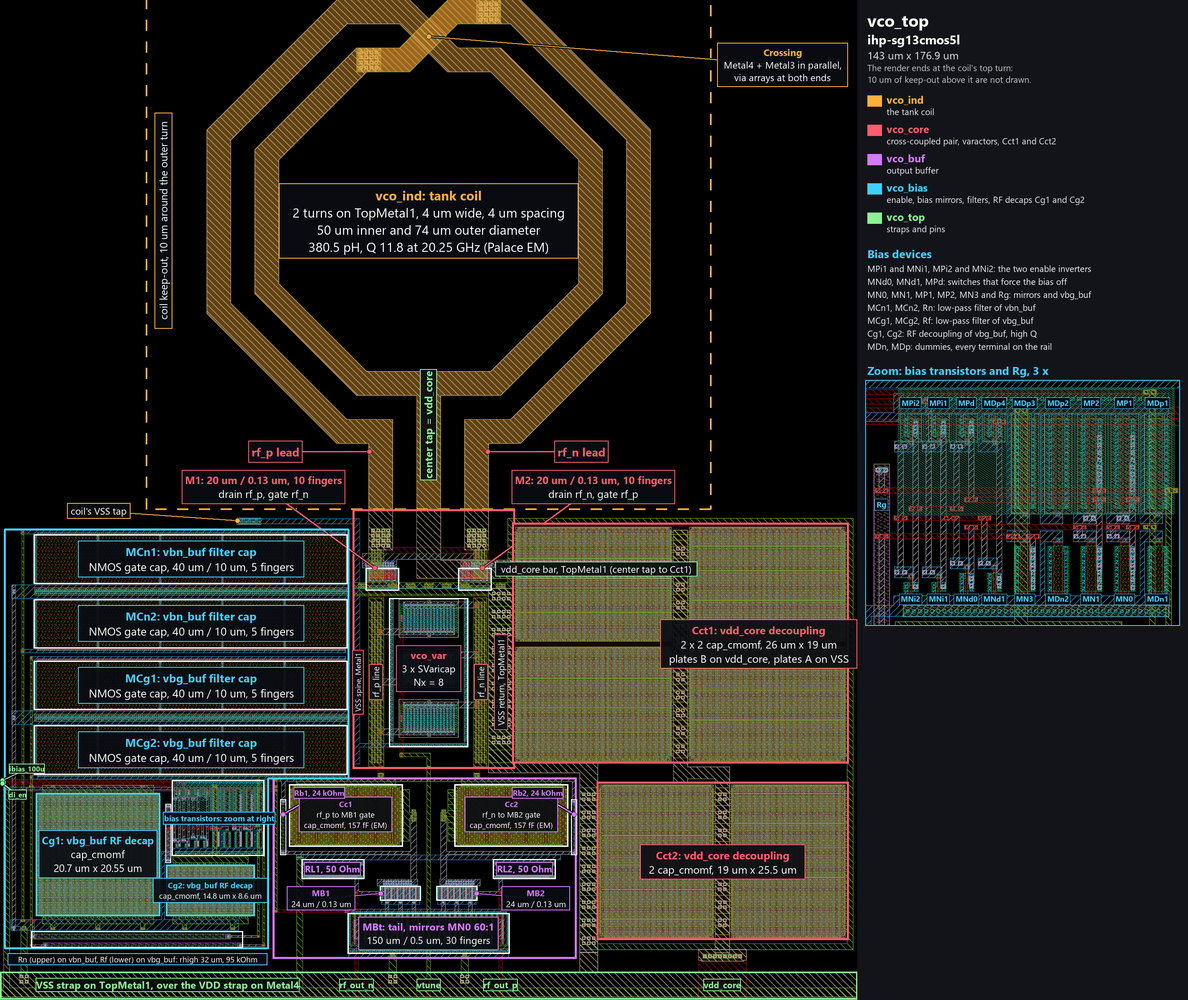
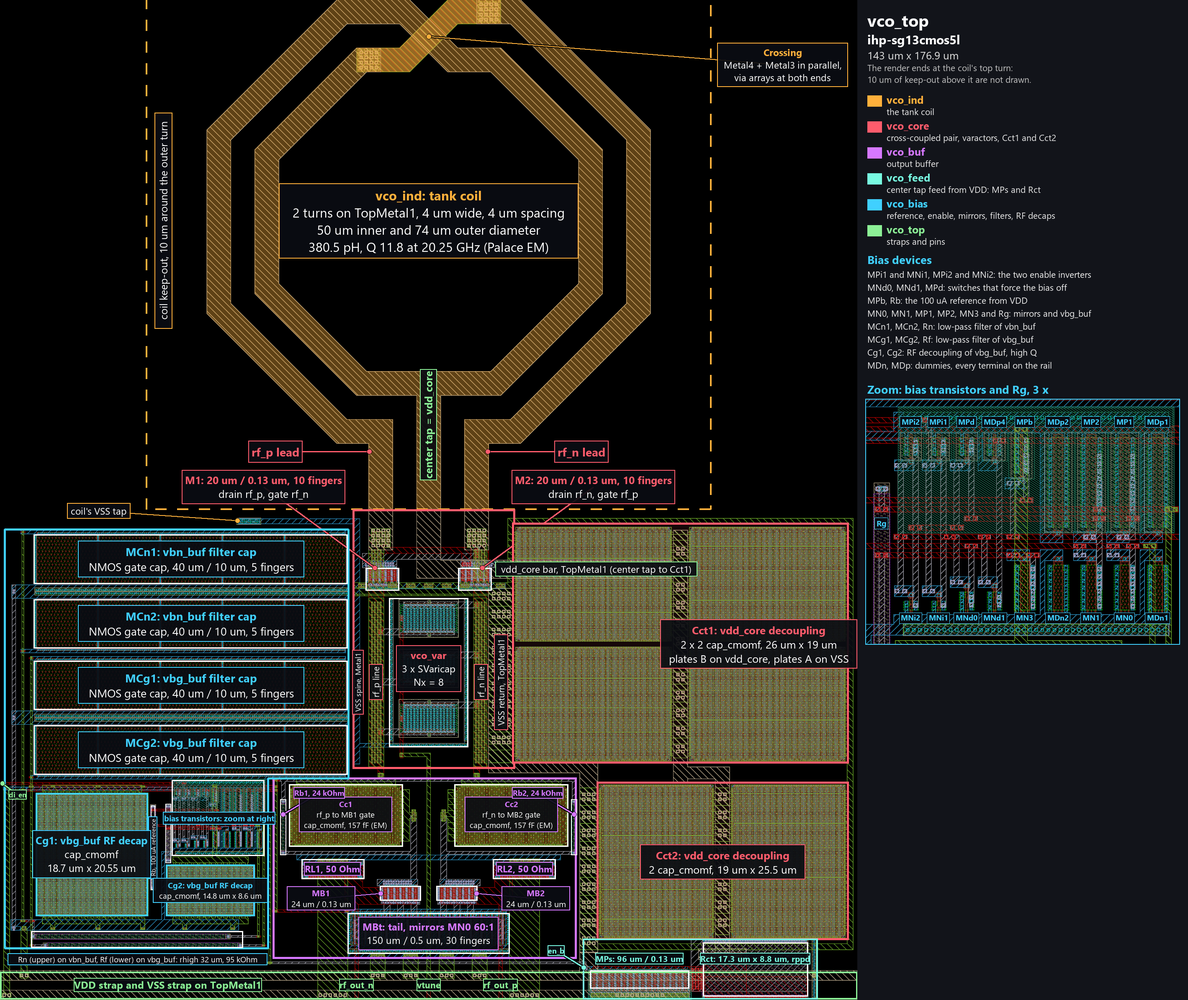
documented the `vco` tap feed, its downsides and the current limits

diff --git a/macros/vco/README.md b/macros/vco/README.md
@@ -5,6 +5,9 @@ A 20 GHz LC voltage-controlled oscillator built from CMOS devices only, the RF m
 > [!NOTE]
 > This macro is under construction on the branch `add-rf-macro`. The schematic, its simulations over corners, the layout of every cell (KLayout Python scripts, KLayout DRC clean but for the density rules the chip's fill resolves, LVS matching), the EM model of the coil and a post-layout simulation are in place. The chip integration follows, see [Status](#status). The chip top-level does not build it yet.
 
+> [!WARNING]
+> The bias and the center tap's feed were reworked: the macro now needs only `VDD`, `VSS`, `di_en` and `vtune`. [Specification](#specification), [Circuit](#circuit), [Pins](#pins), the first table of [Corners](#corners), [Current Density](#current-density) and [Limitations](#limitations) describe this version. The other tables, the figures and the tutorial still show the version with the `vdd_core` and `ibias_100u` pads until every testbench has been rerun, see [Status](#status).
+
 > [!IMPORTANT]
 > The VACASK testbenches need the IIC-OSIC-TOOLS container with tag `2026.10` or later: the oscillator PSS (`oscillator=1`), `pac` and `pnoise` arrived in VACASK after the `2026.09` image.
 
@@ -13,17 +16,17 @@ A 20 GHz LC voltage-controlled oscillator built from CMOS devices only, the RF m
 
 | Parameter | Target | Simulated (TT, 27 C) |
 | --- | --- | --- |
-| Oscillation frequency | 20 GHz | 20.11 GHz post-layout at `vtune` = 0.75 V, 22.73 GHz in the schematic |
-| Tuning range | about 2 GHz, with 20 GHz inside it at every corner | 1.90 GHz post-layout, 19.45 GHz to 21.35 GHz for `vtune` from 0 V to 1.5 V, 1.84 GHz to 2.00 GHz over the corners, 2.60 GHz in the schematic (21.77 GHz to 24.38 GHz) |
-| Tuning gain | | 0.75 GHz/V to 2.24 GHz/V, 1.97 GHz/V at 0.75 V |
-| Phase noise | not optimized, reported | -102.3 dBc/Hz at 1 MHz, see [Limitations](#limitations) |
-| Output power | -10 dBm or more per output into 50 Ohm | -8.9 dBm in the schematic, -10.2 dBm post-layout from the peak-to-peak swing, which reads about 1 dB high |
-| Supplies | `VDD` = 1.5 V, the chip core supply, and `vdd_core` = 0.80 V from its own pad | `VDD` 6.4 mA, `vdd_core` 5.0 mA, plus the 0.1 mA reference, post-layout 5.7 mA and 5.3 mA |
-| Bias | 100 uA reference current into `ibias_100u` | |
-| Power down | `di_en` low turns the buffer and bias currents off, `vdd_core` at 0 V the core | |
-| Corners | starts and stays below 1.5 V on every node at SS, TT and FF, -40 C to 85 C | yes post-layout, 19.16 GHz to 21.53 GHz, highest node 1.44 V, see [Corners](#corners) |
+| Oscillation frequency | 20 GHz | 20.09 GHz post-layout at `vtune` = 0.75 V, 22.75 GHz in the schematic |
+| Tuning range | about 2 GHz, with 20 GHz inside it at every corner | 1.94 GHz post-layout, 19.40 GHz to 21.35 GHz for `vtune` from 0 V to 1.5 V, 2.61 GHz in the schematic (21.77 GHz to 24.38 GHz) |
+| Tuning gain | | 0.77 GHz/V to 2.23 GHz/V, 2.00 GHz/V at 0.75 V, in the schematic |
+| Phase noise | not optimized, reported | -101.1 dBc/Hz at 1 MHz in the schematic, see [Limitations](#limitations) |
+| Output power | -10 dBm or more per output into 50 Ohm | -8.3 dBm in the schematic, -10.2 dBm post-layout from the peak-to-peak swing, which reads about 1 dB high |
+| Supply | `VDD` = 1.5 V from a quiet pad of its own, see [Limitations](#limitations) | 10.8 mA post-layout: core 4.6 mA, buffer tail 5.9 mA, the rest the bias |
+| Bias | from `VDD`, no reference input: `MPb` and `Rb` set about 100 uA in `MN0` | |
+| Power down | `di_en` low stops the core, the buffer and the bias | no oscillation and 9 nA from `VDD` post-layout at TT, 27 C |
+| Corners | starts and stays below 1.5 V on every node at SS, TT and FF, -40 C to 85 C, with `res_typ` at 1.5 V, `res_wcs` at 1.35 V and `res_bcs` at 1.65 V | yes post-layout, 19.07 GHz to 21.59 GHz, highest node 1.495 V, see [Corners](#corners) |
 
-The macro is centered on its post-layout simulation (see [Post-Layout Simulation](#post-layout-simulation)): 20 GHz at the middle of the tuning range, and `vdd_core` in the middle of the window in which every post-layout corner starts and no tank node passes 1.5 V. The schematic, without the resistance and the capacitance of the leads, oscillates 13 % higher and swings higher, so its tank peaks pass 1.5 V at FF, and they are reported but not checked. The other values are schematic-level unless they say post-layout, with the coil model fitted to the EM simulation of the coil's layout (see [EM Simulation of the Coil](#em-simulation-of-the-coil)).
+The macro is centered on its post-layout simulation (see [Post-Layout Simulation](#post-layout-simulation)): 20 GHz at the middle of the tuning range, and `Rct` where every post-layout corner starts at the weak end, `res_wcs` with `VDD` at 1.35 V, and no tank node passes 1.5 V at the strong end, `res_bcs` with `VDD` at 1.65 V. The schematic, without the resistance and the capacitance of the leads, oscillates 13 % higher and swings higher, so its tank peaks pass 1.5 V at FF, and they are reported but not checked. The other values are schematic-level unless they say post-layout, with the coil model fitted to the EM simulation of the coil's layout (see [EM Simulation of the Coil](#em-simulation-of-the-coil)).
 
 This is a simple VCO to learn the RF flow on, not an optimized design. It goes through each step once, from the schematic over the coil's layout, EM simulation and lumped-element model to the oscillator analyses of VACASK and a post-layout simulation. [Limitations](#limitations) lists where it falls short and what a better design would change.
 
@@ -32,16 +35,19 @@ This is a simple VCO to learn the RF flow on, not an optimized design. It goes t
 
 | Cell | Function |
 | --- | --- |
-| `vco_top` | the macro: bias, core, coil and buffer, and the pins |
+| `vco_top` | the macro: bias, tap feed, core, coil, buffer and the pins |
 | `vco_core` | negative resistance and tank capacitance: the cross-coupled NMOS pair `M1`/`M2`, the varactor array, and the decoupling capacitors `Cct1` and `Cct2` of `vdd_core` at the coil's center tap |
 | `vco_ind` | the center-tapped tank coil: the inductor the LVS deck extracts (`vco_ind_lvs.sym`), and the lumped-element model `vco_ind_le` for simulation |
 | `vco_var` | the varactor array: three `sg13_hv_svaricap` with `Nx=8` each, gates on the tank, wells on `vtune` |
 | `vco_buf` | AC-coupled differential output buffer with 50 Ohm back-termination |
-| `vco_bias` | the enable logic, the two bias voltages of the buffer, each behind an RC low-pass filter, and the RF decoupling of `vbg_buf` |
+| `vco_feed` | the center tap's feed from `VDD`: the switch `MPs` and the resistor `Rct` |
+| `vco_bias` | the reference `MPb` and `Rb`, the enable logic, the two bias voltages of the buffer, each behind an RC low-pass filter, and the RF decoupling of `vbg_buf` |
 
-**Core.** The core is the voltage-biased cross-coupled pair of Jung and Park [[1]](#references): two NMOS (20 um / 0.13 um each) with their sources on `VSS`, and no current source at all. The center tap of the coil sits on its own supply `vdd_core`, 0.80 V from a pad, against 0.639 V in the paper. The tank's common mode is then `vdd_core`, and the pair draws whatever current its gate-source voltage `vdd_core` gives: 5.0 mA at TT, 3.7 mA to 6.2 mA over the post-layout corners. That common mode is what the varactor needs. `sg13_hv_svaricap` is an accumulation-mode MOS varactor whose capacitance changes most around 0 V gate-to-well voltage, so with the gates on the tank and the wells on `vtune`, a tune voltage from 0 V to `VDD` sweeps it across that transition. Each tank node swings from about 0.23 V to 1.33 V post-layout, from 0.11 V to 1.58 V in the schematic: the core works in the voltage-limited regime of Hajimiri and Lee [[2]](#references), where the supply and not a current sets the amplitude. `vdd_core` is therefore the amplitude knob, and 0.80 V sits in the middle of a post-layout window of 40 mV: from 0.78 V the slow corner starts, up to 0.82 V the highest node stays below the 1.5 V supply, see [Corners](#corners). `Cct1` and `Cct2` decouple `vdd_core` at the center tap, where the pair's current pulses at twice the oscillation frequency. They are six `cap_cmomf` units on Metal1 to Metal4, 3.8 pF by the model and 3.7 pF in the extraction.
+**Core.** The core is the voltage-biased cross-coupled pair of Jung and Park [[1]](#references): two NMOS (20 um / 0.13 um each) with their sources on `VSS`, and no current source at all. The center tap of the coil, the net `vdd_core`, hangs on `Rct` (17.3 um by 8.8 um of `rppd`) and the switch `MPs` from `VDD`, about 160 Ohm together with the leads, so the tap finds its own voltage: 0.76 V post-layout, against 0.639 V in the paper. The tank's common mode is then that voltage, and the pair draws whatever current its gate-source voltage gives: 4.6 mA at TT, 4.2 mA to 5.0 mA over the post-layout MOS corners, against about 3.7 mA to 6.2 mA with a fixed 0.80 V on the tap. A slow corner draws less, so the tap rises and gives the pair more gate voltage, a fast corner the other way round. That common mode is what the varactor needs. `sg13_hv_svaricap` is an accumulation-mode MOS varactor whose capacitance changes most around 0 V gate-to-well voltage, so with the gates on the tank and the wells on `vtune`, a tune voltage from 0 V to `VDD` sweeps it across that transition. Each tank node swings from about 0.26 V to 1.24 V post-layout: the core works in the voltage-limited regime of Hajimiri and Lee [[2]](#references), where the supply and not a current sets the amplitude. So `VDD` and the spread of `Rct` set the amplitude, and `Rct` sits where the weak end of both still starts and the strong end stays below 1.5 V, see [Corners](#corners). `Cct1` and `Cct2` decouple `vdd_core` at the center tap, where the pair's current pulses at twice the oscillation frequency. They are six `cap_cmomf` units on Metal1 to Metal4, 3.8 pF by the model and 3.7 pF in the extraction.
 
-The first version of this macro, in the ihp-sg13g2 template, fed the center tap from a PMOS current source and set the tank's common mode by the pair's gate-source voltage at that current. The bias noise of the source then moved the varactor's operating point, and the phase noise was -85.4 dBc/Hz at 1 MHz, 92 % of it from the bias chain. The voltage-biased core removes that path. What it gives up is a defined current: the core current follows the process and the temperature, and noise on `vdd_core` reaches the frequency, see [Limitations](#limitations).
+The first version of this macro, in the ihp-sg13g2 template, fed the center tap from a PMOS current source and set the tank's common mode by the pair's gate-source voltage at that current. The bias noise of the source then moved the varactor's operating point, and the phase noise was -85.4 dBc/Hz at 1 MHz, 92 % of it from the bias chain. The voltage-biased core removes that path. What it gives up is a defined current: the core current follows the process and the temperature, and noise on `VDD` reaches the frequency, see [Limitations](#limitations).
+
+A later version still had a `vdd_core` pad for the tap and a 100 uA reference input. [`vco_feed`](schematic/xschem/vco_feed.sch) replaces the first, and `MPb` with `Rb` the second. `Rct` is a resistor and not a PMOS mirror because a mirror's noise on the tap dominates: -98.3 dBc/Hz at 1 MHz behind a 190 kOhm and 10 pF filter and -88.8 dBc/Hz without one, against -101.3 dBc/Hz with the resistor, in the schematic in the ihp-sg13g2 macro. The price is in [Limitations](#limitations).
 
 **Coil.** The tank coil is a symmetric octagon of 2 turns in TopMetal1 with a center tap, 4 um width, 4 um spacing, 50 um inner and 74 um outer diameter, in a keep-out 10 um wide around it. This PDK has neither TopMetal2 nor an inductor PCell, so [`vco_ind.py`](scripts/layout/vco_ind.py) draws it, with its one crossing on Metal4 and Metal3 in parallel. Its EM simulation gives 380.5 pH differential with a Q of 11.8 at 20.25 GHz, see [EM Simulation of the Coil](#em-simulation-of-the-coil). Its diameter and the length of its leads set the post-layout frequency, see [Post-Layout Simulation](#post-layout-simulation). The PDK has no SPICE model for the coil, so `vco_ind` holds two views of it. The LVS view `vco_ind_lvs.sym` is what KLayout LVS extracts, and every simulation netlist skips it (`spice_ignore` is a `tcleval` of the LVS switch, `spectre_ignore=true`). The lumped-element model `vco_ind_le` is what simulation uses, and the LVS netlist skips it (`lvs_ignore=open`). It is fitted with `make snp2le` to the EM result. Its substrate network returns to the global ground node, so `VSS` has to be the ground of every testbench. The deck extracts the coil in the top cell of every LVS run, because its third terminal is the substrate, so the coil sits in `vco_top` beside the core, in the schematic as in the layout.
 
@@ -49,22 +55,20 @@ The first version of this macro, in the ihp-sg13g2 template, fed the center tap 
 
 **Buffer.** A differential pair (24 um / 0.13 um each, 6 mA tail in 30 fingers of 5 um) is AC-coupled to the tank through `cap_cmomf` capacitors (Metal2 to Metal4, 10 um by 18.6 um, 170 fF by the model and 157 fF by EM) and biased at `vbg_buf` (about 1.04 V) through 24 kOhm resistors. Each output has a 50 Ohm `rppd` resistor to `VDD`, so the buffer is back-terminated for a 50 Ohm measurement setup, and the load has to be AC-coupled. The pair is as wide as it is for the output power: in the ihp-sg13g2 macro, 16 um would raise the frequency by 270 MHz and cost 1 dB.
 
-**Bias and enable.** The 100 uA reference current enters the diode-connected NMOS `MN0`, and `MBt` in the buffer mirrors it 60:1. `MN1` copies it into the diode-connected PMOS `MP1`, and `MP2` mirrors that into `Rg` and the diode `MN3`, which sets `vbg_buf` to a gate-source voltage plus 0.45 V. Both bias voltages pass an RC low-pass filter at about 170 kHz: `Rn` (95 kOhm) with `MCn1`/`MCn2` (9.4 pF) on `vbn_buf`, `Rf` (95 kOhm) with `MCg1`/`MCg2` (10 pF) on `vbg_buf`. They are there because the buffer's bias moves the frequency: the buffer's input capacitance depends on its currents and loads the tank through the coupling capacitors, by -38 MHz per mA of tail current in the ihp-sg13g2 macro. With the filters of the first version there (48 kOhm, 1.35 pF), that path set the phase noise once the core was quiet: -96.6 dBc/Hz at 1 MHz, with 77 % from `Rn` and `MN0`. The filter capacitors are NMOS gates (source, drain and bulk on `VSS`), 12 fF/um2 at these voltages against 1.29 fF/um2 for the densest `cap_cmomf` (Metal1 to Metal4), so 10 pF takes 800 um2. Their gate leakage drops 13 mV across `Rf`. `di_en` passes two inverters. Low, it pulls the NMOS gate lines to `VSS` and the PMOS gate line to `VDD`, so the buffer and bias currents are off. The core has no enable, as in the paper: with its own supply, it is off when `vdd_core` is at 0 V. `MCg1` and `MCg2` have L = 10 um, so their channel resistance limits them at RF: `Cg1` and `Cg2` (`cap_cmomf`, about 0.7 pF) hold `vbg_buf` there. `vbn_buf` needs no such cap, as it ends on the gate of `MBt`, about 0.8 pF at L = 0.5 um.
+**Bias and enable.** `MPb` and `Rb` (0.5 um by 13.1 um of `rppd`) feed the diode-connected NMOS `MN0` from `VDD` with about 100 uA, and `MBt` in the buffer mirrors it 60:1. `MN1` copies it into the diode-connected PMOS `MP1`, and `MP2` mirrors that into `Rg` and the diode `MN3`, which sets `vbg_buf` to a gate-source voltage plus 0.45 V. Both bias voltages pass an RC low-pass filter at about 170 kHz: `Rn` (95 kOhm) with `MCn1`/`MCn2` (9.4 pF) on `vbn_buf`, `Rf` (95 kOhm) with `MCg1`/`MCg2` (10 pF) on `vbg_buf`. They are there because the buffer's bias moves the frequency: the buffer's input capacitance depends on its currents and loads the tank through the coupling capacitors, by -38 MHz per mA of tail current in the ihp-sg13g2 macro. With the filters of the first version there (48 kOhm, 1.35 pF), that path set the phase noise once the core was quiet: -96.6 dBc/Hz at 1 MHz, with 77 % from `Rn` and `MN0`. The filter capacitors are NMOS gates (source, drain and bulk on `VSS`), 12 fF/um2 at these voltages against 1.29 fF/um2 for the densest `cap_cmomf` (Metal1 to Metal4), so 10 pF takes 800 um2. Their gate leakage drops 13 mV across `Rf`. `di_en` passes two inverters. Low, it opens `MPs` and `MPb` and pulls the NMOS gate lines to `VSS` and the PMOS gate line to `VDD`, so the core, the buffer and the bias stop. `MCg1` and `MCg2` have L = 10 um, so their channel resistance limits them at RF: `Cg1` and `Cg2` (`cap_cmomf`, about 0.7 pF) hold `vbg_buf` there. `vbn_buf` needs no such cap, as it ends on the gate of `MBt`, about 0.8 pF at L = 0.5 um.
 
 
 ## Pins
 
 | Pin | Direction | Function |
 | --- | --- | --- |
-| `VDD` | inout | supply of the buffer and the bias, 1.5 V |
-| `vdd_core` | inout | supply of the core at the coil's center tap, 0.80 V from its own pad |
+| `VDD` | inout | the macro's only supply, 1.5 V, about 10.8 mA. Feed it from a quiet pad of its own, not from the digital rail, see [Limitations](#limitations) |
 | `VSS` | inout | ground |
-| `ibias_100u` | input | reference current, 100 uA into the macro |
-| `di_en` | input | enable of the buffer and the bias, active high |
+| `di_en` | input | enable of the core, the buffer and the bias, active high |
 | `vtune` | input | tuning voltage, 0 V to `VDD` |
 | `rf_out_p`, `rf_out_n` | inout | differential RF output, 50 Ohm back-terminated to `VDD`, the load has to be AC-coupled |
 
-In the layout (143 um by 176.9 um), `di_en` and `ibias_100u` leave on Metal3 at the left edge. `vtune`, `rf_out_n`, `rf_out_p` and `vdd_core` leave on Metal3 at the bottom edge. `VSS` is a TopMetal1 strap and `VDD` a Metal4 strap along the bottom edge.
+In the layout (143 um by 176.9 um), `di_en` leaves on Metal3 at the left edge. `vtune`, `rf_out_n` and `rf_out_p` leave on Metal3 at the bottom edge. `VDD` and `VSS` are two TopMetal1 straps along the bottom edge, `VDD` the lower one, with their pins at the left end.
 
 
 ## Simulation Results
@@ -86,7 +90,15 @@ The phase noise at 1 MHz offset comes 49 % from the core (pair 30 %, varactors 1
 
 ### Corners
 
-`make sim-corners` runs the start-up transient at the MOS corners SS, TT and FF (the LV and the HV models alike) and at -40 C, 27 C and 85 C, at both ends of the tuning range, `vdd_core` at 0.80 V. Every run oscillates. Post-layout, from `make sim-corners TB=vco_top_tb_tran_lpe` and [`vco_top_tb_tran_lpe_corners.csv`](testbenches/xschem/plot_simulations/figures/vco_top_tb_tran_lpe_corners.csv):
+`make sim-corners` runs the start-up transient at the MOS corners SS, TT and FF (the LV and the HV models alike), at -40 C, 27 C and 85 C and at both ends of the tuning range. `RES_CORNERS` and `VDDS` add the resistor corners and the supply. Since `Rct` and `Rb` set the currents, their spread and the supply's count together: the weak end is `res_wcs` with `VDD` at 1.35 V, the strong end `res_bcs` with `VDD` at 1.65 V. Post-layout, 18 runs per row, every one starts:
+
+| Resistors, `VDD` | Frequency | Center tap | Core current | `VDD` current | Highest node | Lowest output |
+| --- | --- | --- | --- | --- | --- | --- |
+| `res_typ`, 1.5 V | 19.12 GHz to 21.46 GHz | 0.73 V to 0.81 V | 4.2 mA to 5.0 mA | 9.6 mA to 11.9 mA | 1.33 V | -12.5 dBm |
+| `res_wcs`, 1.35 V | 19.16 GHz to 21.59 GHz | 0.68 V to 0.78 V | 3.2 mA to 3.9 mA | 7.1 mA to 9.1 mA | 1.18 V | -16.0 dBm |
+| `res_bcs`, 1.65 V | 19.07 GHz to 21.31 GHz | 0.79 V to 0.86 V | 5.2 mA to 6.1 mA | 12.4 mA to 15.2 mA | 1.495 V | -10.3 dBm |
+
+The highest node is at SS, -40 C, `vtune` 1.5 V, the lowest output at SS, 85 C, `vtune` 0 V. Until the rerun, the tables below show the version with `vdd_core` fixed at 0.80 V, post-layout first, from [`vco_top_tb_tran_lpe_corners.csv`](testbenches/xschem/plot_simulations/figures/vco_top_tb_tran_lpe_corners.csv):
 
 | Corner | Temperature | Frequency, `vtune` 0 V to 1.5 V | Tank nodes | Lowest output | Core current |
 | --- | --- | --- | --- | --- | --- |
@@ -116,8 +128,6 @@ The output columns are read from the peak-to-peak swing (see [Post-Layout Simula
 
 Without the leads, the schematic's tank swings higher, up to 1.66 V at FF and -40 C. The macro is centered on the post-layout corners, so `sim-corners` fails on a tank node above 1.5 V only on the post-layout testbench (`VPEAK_MAX`).
 
-Post-layout, `vdd_core` has 20 mV of room either way, which `VCORE` shows. At 0.78 V the slow corner at `vtune` 0 V still starts (the tank swings 0.49 V to 1.05 V at 85 C), at 0.77 V it no longer does at 85 C. At 0.82 V the highest tank node is 1.487 V (FF, -40 C, `vtune` 1.5 V), at 0.83 V it passes 1.5 V at -40 C. The frequency pushes by -1.3 GHz/V of `vdd_core` at `vtune` = 0.75 V post-layout, by -1.6 GHz/V in the schematic.
-
 
 ## Directory Structure
 
@@ -135,6 +145,7 @@ Post-layout, `vdd_core` has 20 mV of room either way, which `VCORE` shows. At 0.
 │  ├─ vco_bias.gds
 │  ├─ vco_buf.gds
 │  ├─ vco_core.gds
+│  ├─ vco_feed.gds
 │  ├─ vco_ind.gds
 │  ├─ vco_top.gds
 │  └─ vco_var.gds
@@ -157,6 +168,9 @@ Post-layout, `vdd_core` has 20 mV of room either way, which `VCORE` shows. At 0.
 │     ├─ vco_buf_pex.sym
 │     ├─ vco_core.sch
 │     ├─ vco_core.sym
+│     ├─ vco_feed.sch
+│     ├─ vco_feed.sym
+│     ├─ vco_feed_pex.sym
 │     ├─ vco_ind.sch
 │     ├─ vco_ind.sym
 │     ├─ vco_ind_le.sym
@@ -174,6 +188,7 @@ Post-layout, `vdd_core` has 20 mV of room either way, which `VCORE` shows. At 0.
 │  │  ├─ vco_bias.py
 │  │  ├─ vco_buf.py
 │  │  ├─ vco_core.py
+│  │  ├─ vco_feed.py
 │  │  ├─ vco_ind.py
 │  │  ├─ vco_layout.py
 │  │  ├─ vco_top.py
@@ -287,12 +302,12 @@ Both simulators write their results as text tables to `testbenches/xschem/plot_s
 
 Things that are specific to these testbenches:
 
-- **Two supplies**: `VDD` at 1.5 V and `vdd_core` at 0.80 V, each from its own source (`Vcore` reads `.param Vcore` in ngspice and `var vcore` in VACASK).
+- **One supply**: `VDD` at 1.5 V from one source, `.param VDD` in ngspice and `var vdd` in VACASK. The benches read the center tap's voltage as `v(x1.vdd_core)`.
 - **The coil model is included by every testbench**, `netlist/spice/vco_ind_le.spice` for ngspice and `netlist/spectre/vco_ind_le.inc` for VACASK, which also declares the `inductor` and `mutual` devices it needs. The ACSP testbench of the coil declares `capacitor` as well, because Xschem declares a device only when a symbol of the schematic uses it.
 - **ACSP is VACASK's S-parameter analysis.** Each port is a voltage source and its series resistor, which sets the port impedance, and `ports` lists the pairs in port order.
 - **The VACASK testbenches read a patched copy of the HV corner file** from `testbenches/xschem/models/`. The PDK's VACASK model of `sg13_hv_svaricap` (`sg13g2_svaricaphv_mod.lib`, which this PDK shares with ihp-sg13g2) keeps an ngspice voltage term `v(2,4)` in its well resistance, which VACASK cannot evaluate. All coefficients of that term are 0, so the copy replaces it by 0 and the model is unchanged. VACASK looks for an include next to the file that names it first, so the copied corner file picks up the patched model next to it and everything else from the PDK.
-- **The oscillator PSS runs with `pss_minpts=4000` and `reltol=3e-5`.** At the default 1000 steps per period the shooting Newton cycles without converging. The tighter tolerance is for the bias filters: a node with a 1 us time constant barely changes over one 44 ps period, so the shooting Newton amplifies small integration errors on it into a drift, and at the default `reltol` it settled `vbn_buf` and `vbg_buf` about 70 mV off their DC values, with no error. At `reltol=1e-5` the operating point fails.
-- **The PSS starts from `tper=43.9p`, `tstab=6n` and `stabstep=0.5p`.** `tper` sits at the transient's period, 1/22.8 GHz: from a guess 8 % off it, the shooting Newton diverged. `tstab` lets the oscillation build up from the kick of the initial condition. At the default stabilization step, `tper`/4000, the stabilization transient stops at t = 0 with "Timestep too small". `pss_debug=2` prints the Newton history of the shooting, which is how both showed up. The tuning curve uses transients rather than one PSS per tuning voltage, see [Limitations](#limitations).
+- **The oscillator PSS runs with `pss_minpts=8000` and `reltol=3e-5`.** At the default 1000 steps per period the shooting Newton cycles without converging, and at 4000 it can settle on a period that reads false noise on one buffer device, -97.4 dBc/Hz against -101.3 dBc/Hz at 1 MHz, without any error. The tighter tolerance is for the bias filters: a node with a 1 us time constant barely changes over one 44 ps period, so the shooting Newton amplifies small integration errors on it into a drift, and at the default `reltol` it settled `vbn_buf` and `vbg_buf` about 70 mV off their DC values, with no error. At `reltol=1e-5` the operating point fails.
+- **The PSS starts from `tper=43.9p`, `tstab=12n` and `stabstep=0.5p`.** `tper` sits at the transient's period, 1/22.8 GHz: from a guess 8 % off it, the shooting Newton diverged. `tstab` lets the oscillation build up from the kick of the initial condition. At the default stabilization step, `tper`/4000, the stabilization transient stops at t = 0 with "Timestep too small". `pss_debug=2` prints the Newton history of the shooting, which is how both showed up. The tuning curve uses transients rather than one PSS per tuning voltage, see [Limitations](#limitations).
 - **`pnoise` and `pac` run with `tran_fbr=0.02`.** Both integrate one more period around the stored PSS, and VACASK before `7c38094` restarts that integration with a backward-Euler step at every sample of the linearization. The sampled period is then only first-order accurate, and the phase noise and the tuning gain read low below a few MHz: without the option, the phase noise at 1 MHz read 2.7 dB low and the tuning gain from PAC fell from 2.06 GHz/V at 10 MHz to 1.51 GHz/V at 1 MHz. A smaller `tran_fbr` shortens those first-order steps, at about nine times the `pnoise` run time. The option is global, so the `options` line before `pnoise` restates the others. VACASK fixed the cause in `7c38094`, see the discussion of [PR 165](https://codeberg.org/arpadbuermen/VACASK/pulls/165), and the line can go once the image carries it.
 - **The ngspice transient sets `rshunt=1e12`.** The varactor model has a node without a DC path, and without the 1 TOhm shunts the operating point takes more than a minute of gmin stepping.
 - **Every testbench kicks the oscillation** with an initial condition on the two tank nodes, since the operating point is the symmetric, unstable solution.
@@ -323,11 +338,12 @@ Runs `vco_top_tb_tran`, `vco_top_tb_pss_vacask`, `vco_top_tb_tune_vacask` and `v
 ```sh
 make sim-corners                                    # SS, TT, FF at -40 C, 27 C, 85 C, vtune 0 V and 1.5 V
 make sim-corners TB=vco_top_tb_tran_lpe             # the same with the post-layout netlist
-make sim-corners TB=vco_top_tb_tran_lpe VCORE="0.78 0.82"   # the edges of the vdd_core window
+make sim-corners TB=vco_top_tb_tran_lpe RES_CORNERS=res_wcs VDDS=1.35   # the weak end
+make sim-corners TB=vco_top_tb_tran_lpe RES_CORNERS=res_bcs VDDS=1.65   # the strong end
 make sim-corners CORNERS=mos_ss TEMPS=-40 VTUNE=0   # one case
 ```
 
-Netlists the transient testbench `TB` (default `vco_top_tb_tran`) and runs [`sim_corners.py`](scripts/sim_corners.py), which writes one copy of the netlist per MOS corner, temperature, `vdd_core` and `vtune` value into `testbenches/xschem/simulations/corners/`, runs ngspice on four of them at a time, and writes the table `<TB>_corners.csv` to `plot_simulations/figures/`. It fails when a run does not oscillate (a tank swing below 0.5 V) or a tank node passes `VPEAK_MAX`: 1.5 V on the post-layout testbench, which the macro is centered on, and no limit on the schematic one, whose peaks the table still records. The 18 default runs take about 20 seconds, two minutes post-layout.
+Netlists the transient testbench `TB` (default `vco_top_tb_tran`) and runs [`sim_corners.py`](scripts/sim_corners.py), which writes one copy of the netlist per MOS corner, resistor corner, temperature, `VDD` and `vtune` value into `testbenches/xschem/simulations/corners/`, runs ngspice on four of them at a time, and writes the table `<TB>_corners.csv` to `plot_simulations/figures/`. It fails when a run does not oscillate (a tank swing below 0.5 V) or a tank node passes `VPEAK_MAX`: 1.5 V on the post-layout testbench, which the macro is centered on, and no limit on the schematic one, whose peaks the table still records. The 18 default runs take about 20 seconds, two minutes post-layout.
 
 
 ### Generate the Layouts with KLayout Python Scripts
@@ -346,7 +362,8 @@ Every layout of this macro is written by a KLayout Python script in [`scripts/la
 | [`vco_bias.py`](scripts/layout/vco_bias.py) | bias and enable | the four NMOS gate capacitors on top as two mirrored row pairs that share their tap band. Below them a rectangle: the NMOS and PMOS rows in its top right corner, next to the buffer's bias pins, sharing their columns and facing each other with their gates, the mirrors closest to `MBt` between end dummies, `Rg` beside the rows, `Cg1` and `Cg2` as an L around them, `Rn` and `Rf` along the bottom. Metal2 stubs reach Metal3 tracks over the rows at a 0.51 um pitch. The lines that pass the decaps run in a band of Metal3 tracks above them, with `VDD` on Metal1 under that band and `VSS` on Metal1 below the decaps and up a lane between them |
 | [`vco_buf.py`](scripts/layout/vco_buf.py) | the output buffer | mirror-symmetric: the tail (30 fingers) at the bottom, its taps also biasing the pair's substrate, the pair above it, the 50 Ohm loads at the sides, the coupling caps on top, each with its plate B fed from above as the input and its plate A facing inward to the gate line, the gate bias resistors outside them |
 | [`vco_core.py`](scripts/layout/vco_core.py) | the core | the varactor array as a subcell, a column under the coil's feeds: `rf_p` and `rf_n` as Metal3 lines 2.5 um wide down its whole height, doubled on Metal4 except where the pair's `VSS` bar crosses them, from 6 x 6 via stacks at the feeds, the pair right below the feeds with its cross-coupling on Metal2 (`rf_n`) and Metal3 (`rf_p`) from via rows along its gate pads, the array below it with its buses on the same lines. The center tap's TopMetal1 spine turns right into the middle collector of `Cct1`, which fills the space right of the column, `Cct2` the space right of the buffer. In each array the columns are mirrored in pairs, so the plates on `vdd_core` share one collector in the middle, under a TopMetal1 strap, and the plates on `VSS` face outward. The pair's source bar returns to `VSS` on TopMetal1, down the channel between the column and `Cct1` |
-| [`vco_top.py`](scripts/layout/vco_top.py) | the macro | as wide as the coil's keep-out: the coil at the core's origin, the core's column on the axis, the buffer centered under it, the bias on the left, a VSS strap (TopMetal1, 4 um) over a VDD strap (Metal4) along the bottom, `vdd_core` on a TopMetal1 tab with 16 Via3 cuts down to its Metal3 pin, nothing that closes a loop around the coil, the PR boundary with the origin at its lower-left corner |
+| [`vco_feed.py`](scripts/layout/vco_feed.py) | the tap feed | on the macro's bottom edge: the switch `MPs` with its source rail along the bottom, under the `VDD` strap, then `Rct` with the coil's side at the bottom, then the substrate tap. Metal2 over `Rct` takes the current from the drain to the top head, Metal3 from the bottom head to the macro's line up to the coil |
+| [`vco_top.py`](scripts/layout/vco_top.py) | the macro | as wide as the coil's keep-out: the coil at the core's origin, the core's column on the axis, the buffer centered under it, the bias on the left, the tap feed under `Cct2`, two TopMetal1 straps along the bottom with VDD below VSS, the tap on a TopMetal1 tab with 32 Via3 cuts down to Metal3 and the tap feed, nothing that closes a loop around the coil, the PR boundary with the origin at its lower-left corner |
 
 The macro measures 143 um by 176.9 um, 35 % of it the coil's keep-out, and every region outside it is filled: the bias's capacitor rows beside the core's column, `Cct1` and `Cct2` on the other side. The scripts share [`vco_layout.py`](scripts/layout/vco_layout.py):
 
@@ -446,6 +463,7 @@ The verification and build targets are those of the [inverter](../inverter/READM
 | Cell | KLayout | gdscheck | Magic |
 | --- | --- | --- | --- |
 | `vco_bias` | DRC, LVS, `check-mom` | DRC | LVS without the `cap_cmomf`, PEX |
+| `vco_feed` | DRC, LVS | DRC | LVS, PEX |
 | `vco_buf` | DRC, LVS, `check-mom` | DRC | LVS without the `cap_cmomf`, PEX |
 | `vco_var` | DRC, LVS | DRC | |
 | `vco_ind` | DRC, LVS, `check-coil-tap` | DRC | |
@@ -466,6 +484,27 @@ gdscheck 0.2.0 does not pass `vco_var`, `vco_core` and `vco_top`: 804 items on `
 
 `make build-top` checks the PR boundary and writes the LEF, the Liberty stub, the Verilog stub (from the Magic PEX netlist of `vco_top`), the GDS in `final/` and the renders.
 
+
+### Current Density
+
+No DRC deck checks electromigration, so the layout scripts do. `check_wire()` and `check_cuts()` in [`vco_layout.py`](scripts/layout/vco_layout.py) hold every DC path of the macro against the limits of the process specification (11 years at 105 C), print the ratio, and stop the script above 1. The limits are 1 mA/um on Metal1 and flat 0.36 mA up to 0.36 um, 2 mA/um on Metal2 to Metal5 and flat 0.6 mA up to 0.3 um, 15 mA/um on TopMetal1, 0.4 mA per cut of Via1 to Via4 and 1.4 mA per cut of TopVia1.
+
+The currents are `I_CORE`, `I_TAIL` and `I_BIAS` in the same script: the highest post-layout values at the limits' temperature, FF, `res_bcs` and `VDD` at 1.65 V, 5.9 mA in the core and 7.5 mA in the tail, rounded up. A change of the bias or of `Rct` needs a new look at them. The ten highest ratios:
+
+| Path | Wire or cuts | Current | Limit | Ratio |
+| --- | --- | --- | --- | --- |
+| drain plate of `MPs` | Metal3, 4.10 um | 6.20 mA | 8.20 mA | 0.76 |
+| source strip of the buffer's pair | Metal2, 0.29 um | 0.45 mA | 0.60 mA | 0.75 |
+| source strip of the core's pair | Metal2, 0.29 um | 0.43 mA | 0.60 mA | 0.72 |
+| drain strap of the buffer's pair | Metal3, 2.81 um | 3.85 mA | 5.63 mA | 0.68 |
+| source stripe of the tail | Metal1, 0.80 um | 0.51 mA | 0.80 mA | 0.64 |
+| tail to pair, each of six stubs | Metal2, 1.00 um | 1.28 mA | 2.00 mA | 0.64 |
+| buffer's drain to its load | Metal3, 3.00 um | 3.85 mA | 6.00 mA | 0.64 |
+| `VDD` strap | TopMetal1, 1.64 um | 14.30 mA | 24.60 mA | 0.58 |
+| plate on the bottom head of `Rct` | Metal3, 3.50 um | 4.03 mA | 7.00 mA | 0.58 |
+| tap's stack, top | 8 TopVia1 | 6.20 mA | 11.20 mA | 0.55 |
+
+A source stripe at the finger pitch of the short devices (`MPs`, `MB1`, `MB2`, `M1`, `M2`) cannot be wider than 0.16 um on Metal1, so `mos()` has `s_strap`: a 0.29 um Metal2 strip over the stripe with vias all along, which takes about 70 % of the current, and the drains on Metal3. The tail's fingers leave room for 0.8 um of Metal1 (`s_width`). The limits are DC averages: nothing here bounds the RF current in the tank's lines.
 
 ### Parasitic Extraction (PEX)
 
@@ -506,7 +545,7 @@ Both columns are the same ngspice transient, so the output here is read from the
 
 - **The frequency falls by 11 %**, through the capacitance of the buffer's inputs, which the tank sees through the coupling capacitors, and of the leads: 18 fF from `rf_p` and 23 fF from `rf_n` to `VSS`, 4.9 fF of each on the plate of the coupling cap. The 5 fF that `rf_n` has more come from the `VSS` return beside its line, 2 % of the capacitance of a tank node.
 - **The swing is smaller** because the resistance of the leads adds to the coil's own 2.05 Ohm per side: from the coil's feed 1.4 Ohm to the varactors, 1.6 Ohm to the pair's drains, 4.5 Ohm to its gates and 4.6 Ohm to the coupling caps, behind which 4.5 Ohm lead to the buffer's gates, 1.7 Ohm from the `VSS` pin to the pair's sources and 1.7 Ohm from the `vdd_core` pin to the center tap. The varactors carry the largest share of the tank current, most at `vtune` 0 V, so the slow corner there is the one that starts last.
-- **The macro is centered on this simulation.** The coil's diameter and the length of its leads put the post-layout frequency at 20 GHz in the middle of the tuning range, and `vdd_core` sits in the middle of the post-layout window, see [Corners](#corners).
+- **The macro is centered on this simulation.** The coil's diameter and the length of its leads put the post-layout frequency at 20 GHz in the middle of the tuning range, and `Rct` is set on the post-layout corners, see [Corners](#corners).
 
 The first post-layout simulation of this macro extracted the leads at Magic's default thresholds, which left every net but `VSS` without resistance: it showed 19.82 GHz and the tank at 0.12 V to 1.31 V with a coil of 415 pH and `vdd_core` at 0.72 V. With every resistance in, that layout did not start at the slow corner. The leads were redrawn (see [What the scripts had to learn](#generate-the-layouts-with-klayout-python-scripts)), the coil got 10 um of keep-out instead of 30 um and an inner diameter of 50 um instead of 52 um, 380 pH, and `vdd_core` moved to the middle of its post-layout window. With the buffer's gate lines strapped and the coupling caps as devices, that window is 0.78 V to 0.82 V, so `vdd_core` is 0.80 V.
 
@@ -533,10 +572,12 @@ Runs `klayout-script-all`, `klayout-verify-all`, `gdscheck-drc-all`, `magic-veri
 This VCO is kept simple on purpose. These are the places where it falls short, and what a better design would change:
 
 - **Phase noise** is -102.3 dBc/Hz at 1 MHz. Published 130 nm CMOS LC VCOs from 20 GHz to 27 GHz measure -102 dBc/Hz to -113 dBc/Hz [[1]](#references)[[3]](#references)[[4]](#references)[[5]](#references), Jung and Park -113 dBc/Hz at 26.9 GHz with a resonator Q of 19 [[1]](#references). The tank sets the limit here: the coil's Q is 11.8, against the microstrip resonator of the paper, and the paper's own comparison shows a symmetric spiral as good as its microstrip only up to 22.4 GHz. Wider traces and fewer turns raise the coil's Q, and in this process the only thick metal is the 2 um TopMetal1. After the tank, the buffer's tail bias is the largest contributor (39 %), and below 1 MHz the largest of all, which a larger filter capacitor or a bias of the buffer that does not change its input capacitance would remove. The phase noise is simulated on the schematic only, see the last point.
-- **`vdd_core` is a noise input.** The tank's common mode is `vdd_core`, which is also the varactor's operating point, so noise on `vdd_core` moves the frequency by -1.3 GHz/V at `vtune` = 0.75 V post-layout, close to the tuning gain. The pad supply has to be as quiet as `vtune`. The paper measured with a laboratory supply. An on-chip regulator would bring its own noise into the same path.
-- **The core current is not defined.** With no current source, it follows the process and the temperature (3.7 mA to 6.2 mA at 0.80 V over the post-layout corners), and `vdd_core` has only 20 mV of room either way between no start at SS and an overstressed tank at FF, see [Corners](#corners). A per-die trim of `vdd_core` is the way a voltage-biased oscillator is usually set up.
+- **`VDD` reaches the tank.** `Rct` passes `VDD` to the center tap, which is the varactor's operating point and the pair's gate voltage: 0.46 GHz/V from `VDD` to the frequency at 1 MHz offset in the schematic. A 1 mV tone on `VDD` gives a spur of -12.8 dBc at 1 MHz, -32.9 dBc at 10 MHz and -52.7 dBc at 100 MHz, and about 30 nV/rtHz on `VDD` at 1 MHz equals the oscillator's own phase noise. Decoupling on the macro does not help: in the ihp-sg13g2 macro, 10 pF on the tap or 50 pF behind 1 Ohm bought at most 1 dB up to 100 MHz. So `VDD` needs a quiet pad of its own and not the digital rail. A regulator would be the fix, and would bring its own noise into the same path.
+- **The tank stops when disabled.** `di_en` low opens `MPs`, so the oscillator restarts from nothing, a PLL around it has to lock again, and the output cannot be switched off with the tank running. That would take an RF switch at the output and a different `di_en`.
+- **The amplitude and the current follow `VDD` and the resistor.** No pin is left to trim the swing or the frequency: over the corners the core takes 3.2 mA to 6.1 mA and the output falls to -16.0 dBm at the weak end, see [Corners](#corners). The window is narrow at the strong end, where the highest node reaches 1.495 V. A per-die trim would need a switched `Rct`.
+- **The feed costs power.** The core draws its current from 1.5 V and not from about 0.80 V, so the macro takes 16 mW against 12.8 mW with the `vdd_core` pad, and the figure of merit counted on the core's power is about 3 dB worse, -180 dBc/Hz against -183 dBc/Hz in the schematic.
 - **The `cap_cmomf` model is a capacitance only**: an area density, no series resistance of its fingers and no substrate capacitance, and on the buffer's caps 8.5 % above the EM result. The schematic sees neither. The post-layout simulation adds the EM parasitics to the model on the buffer's caps and reads the decoupling caps as metal, see [Parasitic Extraction (PEX)](#parasitic-extraction-pex). KLayout LVS checks the caps' connections but not their size, which `check-mom` does.
-- **The oscillator PSS is fragile.** It needs `pss_minpts=4000`, `reltol=3e-5` and a period guess at the transient's (see the testbench notes), it converges at the nominal tuning voltage but not at every one, which is why the tuning curve uses transients, and a slow state can settle wrong without an error, which the plot script's check against the transient catches.
+- **The oscillator PSS is fragile.** It needs `pss_minpts=8000`, `reltol=3e-5` and a period guess at the transient's (see the testbench notes), it converges at the nominal tuning voltage but not at every one, which is why the tuning curve uses transients, and a slow state can settle wrong without an error, which the plot script's check against the transient catches.
 - **PNOISE and PAC need care at low offsets.** With `tran_fbr=0.02` (see the testbench notes) the tuning gain from PAC is flat within 2 % from 100 MHz down to 180 kHz (2.01 GHz/V), and the phase noise follows its sources: 20 dB per decade above 3 MHz, steeper below, where the filtered bias noise takes over. Below about 100 kHz the tuning gain falls again (0.49 GHz/V at 10 kHz) and the phase noise flattens, a limit that moves down with a finer time step of the period. So read the phase noise from about 100 kHz up, and check it against a transient-noise simulation. With `oscillator=1`, `pnoise` computes the noise as for a driven circuit, so it is the total noise, phase and amplitude, which close to the carrier is the phase noise.
 - **The post-layout simulation is a transient.** VACASK does not read the SPICE netlists of the extraction without a translation, so the post-layout phase noise is not simulated, and the varactor array's own routing is not extracted.
 
@@ -555,12 +596,15 @@ The macro is built in steps, each one reviewed before the next:
 - [x] Post-layout simulation of the whole macro: KPEX with every resistance above 1 Ohm, ports where the coil and the varactor array connect, the capacitances from a C-coupled run (magic#557), the EM model of the coil
 - [x] Tank leads redrawn for the extracted resistance, and the macro centered on the post-layout simulation: coil keep-out and diameter, `vdd_core` at 0.80 V
 - [x] Corners (SS, TT, FF, -40 C to 85 C, both ends of the tuning range, the `vdd_core` trim range)
+- [x] Bias and tap feed from `VDD`: `vco_feed`, `MPb` and `Rb`, no `vdd_core` and `ibias_100u` pads, centered post-layout over the MOS and the resistor corners and `VDD` from 1.35 V to 1.65 V, DRC and LVS clean
+- [x] DC current limits checked in the layout scripts, supply straps and source stripes sized for them
+- [ ] Rerun of every testbench on this version, then the tables of this README, the figures and the tutorial
 - [x] The buffer's coupling caps as PDK devices with their EM parasitics in the post-layout netlist (`drop_subcells.py --cut`, `momf_lpe.py`, `make sim-em-momf` on a compute host)
 - [x] Port from ihp-sg13g2, see [Porting from ihp-sg13g2](#porting-from-ihp-sg13g2)
 - [ ] Enable and power-up transient
 - [ ] More RF analyses: transient noise as the cross-check of PNOISE, the post-layout phase noise, HB, HBAC and HBNOISE on the buffer, ACSP of the buffer
 - [ ] Layouts by other methods for the tutorial: hand-drawn in KLayout, generated with GDSFactory
-- [ ] Chip integration: an analog pad for `vdd_core`, the 20 GHz output needs RF pads or a divider to an existing pad, and the coil occupies TopMetal1, the top layer of the chip power grid
+- [ ] Chip integration: a quiet analog pad for the macro's `VDD` (`vdd_rf`), the 20 GHz output needs RF pads or a divider to an existing pad, and the coil occupies TopMetal1, the top layer of the chip power grid
 - [x] Tutorial chapter after the analog macro
 
 
